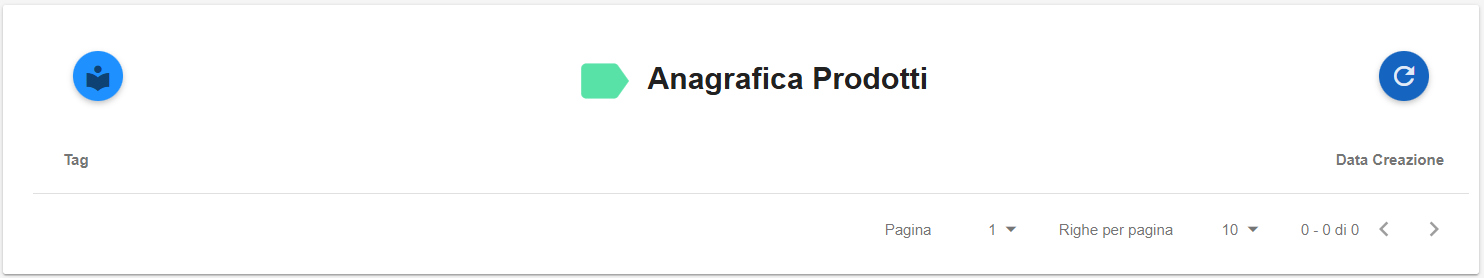
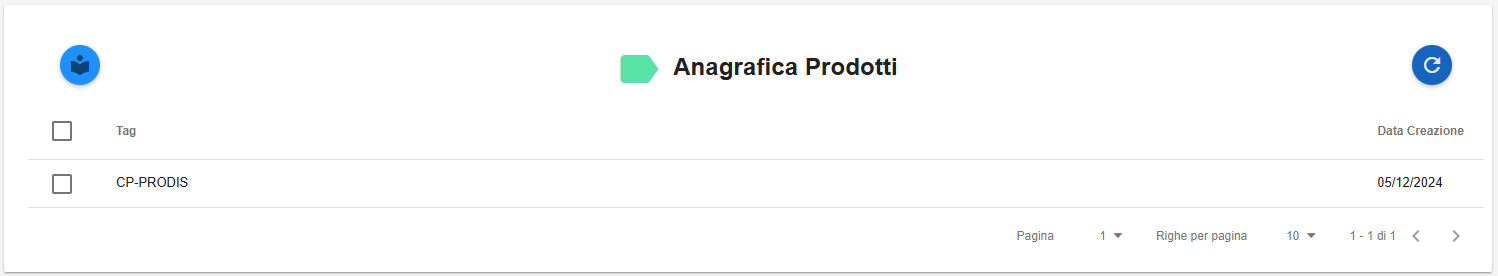
250507commit.1

diff --git a/docs/Come_fare_per/10.7_Anagrafica_Prodotti(Gestione_account_MA).rst b/docs/Come_fare_per/10.7_Anagrafica_Prodotti(Gestione_account_MA).rst
@@ -12,3 +12,29 @@ A seguito del clic su **Anagrafica prodotto**, il sistema permetterà di verific
 parte destra del video l'eventuale presenza di codice-prodotto (associati dall'Amministratore di Backoffice all'account) 
 
 .. image:: img/10.7_AnaProdDX.png
+
+|
+
+**E' possibile associare il codice prodotto afferente ad un account a tutte le risorse dell'account stesso (vm, dbaas)**
+
+Per effettuare tale operazione è necessario selezionare il codice prodotto, quindi cliccare sul pulsante in alto a destra "Associa i tag"
+
+.. image:: img/10.7_AnaProd3.png
+
+|
+
+Comparirà questa schermata intermedia, in cui è necessario cliccare sul tasto **CONFERMA**
+
+.. image:: img/10.7_AnaProd4.png
+
+|
+
+Un messaggio in verde in alto a destra darà conferma dell'avvenuta operazione
+
+.. image:: img/10.7_AnaProd5.png
+
+|
+
+Nell'elenco delle Virtual Machine e dei Database verrà quindi popolata la relativa colonna "Tags(s)":
+
+.. image:: img/10.7_AnaProd6.png

diff --git a/docs/Future/future_Release.rst b/docs/Future/future_Release.rst
@@ -5,9 +5,24 @@
 **Portale**
 ***********
 
-*Versione 4.16.x*
+*Versione 4.16.1*
 
-*Data prevista*
+*Data prevista: 8 maggio 2025*
+
+*Nuove funzionalità/Improvement*
+
+•  associazione codice prodotto afferente ad un account a tutte le risorse dell’account stesso (vm, dbaas)
+
+
+*Bug fixing*
+
+•  migliorato controllo lunghezza nome VM Windows
+
+•  bug fixing sottocampi bozza ticket
+
+•  bug fixing in specifica casistica listino corrente
+
+•  bug fixing minori
 
 |
 
